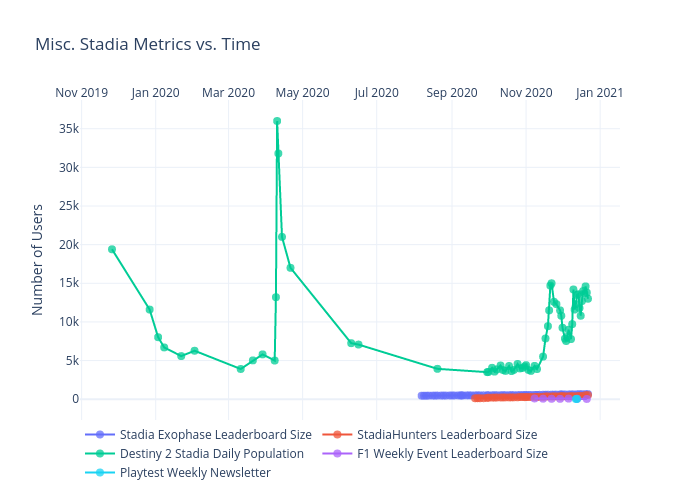
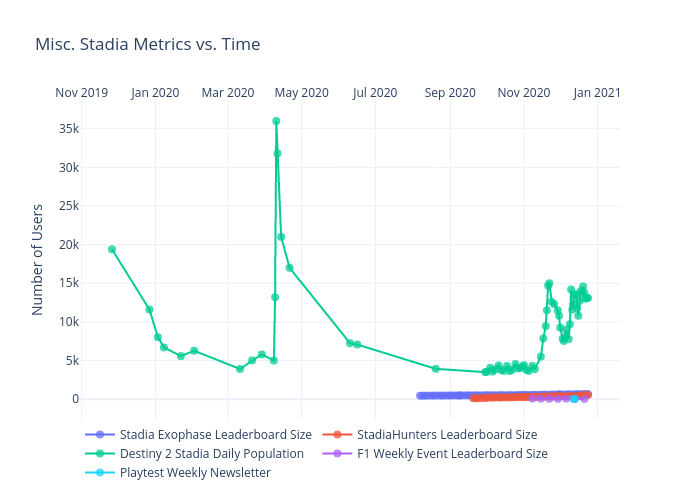
Add files via upload

diff --git a/misc/figure.js b/misc/figure.js
@@ -111,6 +111,7 @@ var figure = {
                 "2020-12-20",
                 "2020-12-21",
                 "2020-12-22",
+                "2020-12-23",
                 "2020-12-24",
                 "2020-12-27",
                 "2020-12-29",
@@ -217,7 +218,9 @@ var figure = {
                 "",
                 "655",
                 "",
-                "659"
+                "659",
+                "",
+                "666"
             ],
             "marker": {
                 "size": 8,
@@ -338,6 +341,7 @@ var figure = {
                 "2020-12-20",
                 "2020-12-21",
                 "2020-12-22",
+                "2020-12-23",
                 "2020-12-24",
                 "2020-12-27",
                 "2020-12-29",
@@ -444,7 +448,9 @@ var figure = {
                 "",
                 "517",
                 "",
-                "533"
+                "533",
+                "",
+                "539"
             ],
             "marker": {
                 "size": 8,
@@ -565,6 +571,7 @@ var figure = {
                 "2020-12-20",
                 "2020-12-21",
                 "2020-12-22",
+                "2020-12-23",
                 "2020-12-24",
                 "2020-12-27",
                 "2020-12-29",
@@ -671,7 +678,9 @@ var figure = {
                 "13700",
                 "14600",
                 "13800",
-                "13000"
+                "13000",
+                "13100",
+                "13100"
             ],
             "marker": {
                 "size": 8,
@@ -792,6 +801,7 @@ var figure = {
                 "2020-12-20",
                 "2020-12-21",
                 "2020-12-22",
+                "2020-12-23",
                 "2020-12-24",
                 "2020-12-27",
                 "2020-12-29",
@@ -1018,6 +1028,7 @@ var figure = {
                 "2020-12-20",
                 "2020-12-21",
                 "2020-12-22",
+                "2020-12-23",
                 "2020-12-24",
                 "2020-12-27",
                 "2020-12-29",
@@ -1133,8 +1144,8 @@ var figure = {
             "side": "top",
             "type": "date",
             "range": [
-                "2019-11-01 10:25:08.9489",
-                "2021-01-15 13:34:51.0511"
+                "2019-11-01 07:24:39.9129",
+                "2021-01-17 16:35:20.0871"
             ],
             "title": {
                 "text": ""
@@ -1144,8 +1155,8 @@ var figure = {
         "yaxis": {
             "type": "linear",
             "range": [
-                -2438.1121877188893,
-                38465.11218771889
+                -3270.914824447334,
+                39297.91482444733
             ],
             "title": {
                 "text": "Number of Users"
